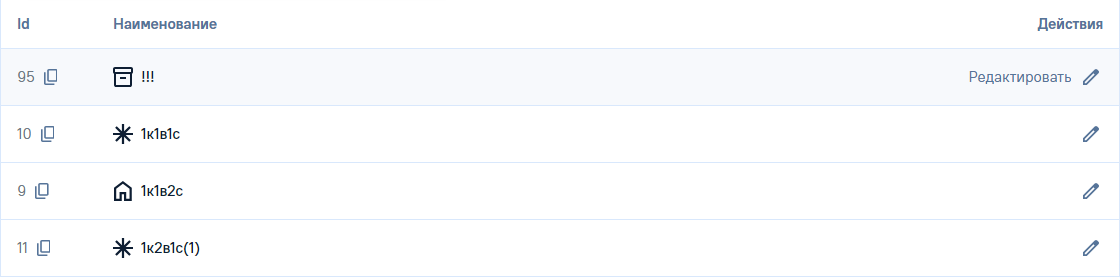
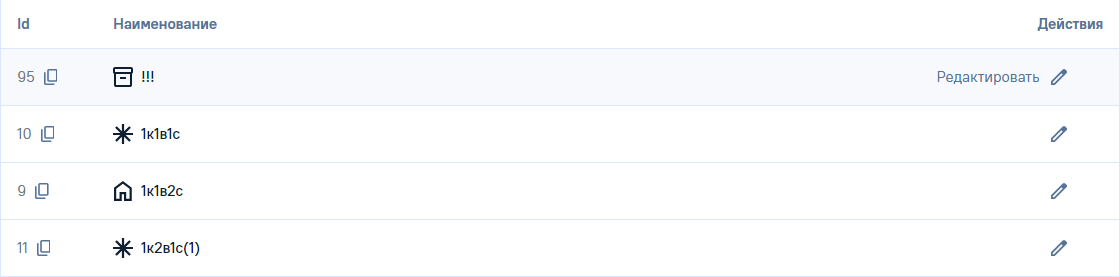
Такт 22: порядок слотов в колонке действий — вторичный правее карандаша
Дефект передачи решения в такте 21 (ошибка чата): слоты стояли
[вторичное] [карандаш], подпись появлялась только без вторичных.

По решению владельца слева направо: подпись «Редактировать» →
карандаш → вторичный слот. Подпись по наведению строки — всегда,
механика такта 20 без условий; тултип только у иконки вторичного
слота, у кебаба и карандаша тултипа нет. Вторичный слот 24×24 через 8
резервируется всегда, пустой без объекта (рекомендация чата, принято
владельцем). Ширина колонки — TABLE_ROW_ACTIONS_COLUMN = 200, одна
на всю админку. TableRowAction не менялся.

Документы: naming.md (действие строки, канон, что где живёт),
page-insure-types.md (такт 22, пометки у строк такта 21), handoff.md.
Скриншоты action-hover, actions-demo, kebab-open пересняты headless.

diff --git a/app/components/ui/table/TableRowActions.vue b/app/components/ui/table/TableRowActions.vue
@@ -9,27 +9,31 @@ import TableRowAction from './TableRowAction.vue'
 import { TABLE_ROW_ACTION_ORDER, type TableRowActionItem } from '.'
 
 /**
- * Колонка «Действия» строки — всегда не больше двух слотов. Решения владельца:
- * такт 20 (удаление не голой иконкой, порядок кебаба), такт 21 (модель двух слотов).
- * Мастера нет — композиция `TableRowAction`, `IconButton service`, `Tooltip` и
- * попапа «ещё» с «Моих осмотров» (`Popover` + `SelectItem`).
+ * Колонка «Действия» строки. Решения владельца: такт 20 (подпись по наведению,
+ * удаление не голой иконкой, порядок кебаба), такт 21 (вторичный слот), такт 22
+ * (порядок слотов и резерв).
  *
- * ## Модель двух слотов
+ * ## Порядок слева направо: подпись → карандаш → вторичный слот
  *
- * | Вторичных действий | Раскладка |
+ * Карандаш с подписью — `TableRowAction`, всегда и при любом числе действий: подпись
+ * «Редактировать» проявляется слева от карандаша по наведению на строку (`opacity`,
+ * место зарезервировано, 12 до глифа). У карандаша тултипа нет — у него подпись.
+ *
+ * Правее карандаша через 8 — **вторичный слот** 24×24:
+ *
+ * | Вторичных действий | Вторичный слот |
  * |---|---|
- * | нет | `TableRowAction`: карандаш и подпись «Редактировать» по наведению на строку |
- * | одно, не удаление | [иконка действия] [карандаш], у обеих тултип с названием |
- * | два и больше — или есть удаление | [кебаб] [карандаш], у карандаша тултип |
+ * | нет | пустой, без объекта — но место занято |
+ * | одно, не удаление | иконка действия (`IconButton service`, глиф 16), тултип с названием |
+ * | два и больше — или есть удаление | кебаб (глиф `pending`), тултипа нет; удаление — последней группой |
  *
- * Правый слот — карандаш, всегда. Слот 24×24 (хит-зона `IconButton size="sm"`),
- * зазор 8, всё прижато вправо — поэтому у карандаша одна координата X на всю колонку.
- * Удаление голой иконкой не встаёт никогда: оно уводит в кебаб все вторичные, даже
- * если оно единственное.
+ * **Вторичный слот резервируется всегда** — рекомендация чата, принято владельцем (такт
+ * 22): тогда карандаш стоит на одной координате X во всей админке, а не только внутри
+ * страницы. Ширина колонки поэтому одна на всю админку —
+ * `TABLE_ROW_ACTIONS_COLUMN` в `table/index.ts`, страница её не пересчитывает.
  *
- * Пороги «1–3 инлайном, 4+ кебаб», очередь инлайн-слотов и резерв под три иконки
- * такта 20 сняты. Ширину колонки резервирует страница: без вторичных — слот плюс
- * подпись, со вторичными — два слота.
+ * > Такт 22 исправил порядок: в такте 21 вторичный слот стоял левее карандаша — ошибка
+ * > передачи решения владельца.
  *
  * ## Клик по действию не уходит в строку
  *
@@ -39,7 +43,7 @@ import { TABLE_ROW_ACTION_ORDER, type TableRowActionItem } from '.'
 const props = withDefaults(defineProps<{
   /** Вторичные действия в любом порядке — порядок кебаба задаёт компонент. */
   actions?: TableRowActionItem[]
-  /** Подпись и имя карандаша. */
+  /** Подпись карандаша. */
   editLabel?: string
   /** Редактирование недоступно по правам. */
   editDisabled?: boolean
@@ -51,7 +55,7 @@ const props = withDefaults(defineProps<{
 
 const menuOpen = ref(false)
 
-/** Одно вторичное действие, и это не удаление, — встаёт иконкой в левый слот. */
+/** Одно вторичное действие, и это не удаление, — встаёт иконкой. */
 const single = computed(() => {
   const [first] = props.actions
   return props.actions.length === 1 && first && !first.destructive ? first : null
@@ -68,28 +72,25 @@ const menuDanger = computed(() => ordered.value.filter(a => a.destructive))
 
 <template>
   <div data-slot="table-row-actions" class="flex items-center justify-end gap-2" @click.stop>
-    <!-- Вторичных нет: один слот, подпись по наведению на строку. -->
-    <TableRowAction v-if="!props.actions.length" :disabled="props.editDisabled">
+    <!-- Подпись и карандаш: всегда, при любом числе действий. -->
+    <TableRowAction :disabled="props.editDisabled">
       {{ props.editLabel }}
     </TableRowAction>
 
-    <template v-else>
-      <!-- Левый слот — одно вторичное действие иконкой. -->
+    <!-- Вторичный слот: 24×24, занят всегда — пустой, иконка или кебаб. -->
+    <span data-slot="table-row-actions-secondary" class="relative flex size-6 shrink-0">
       <TooltipProvider v-if="single">
         <Tooltip>
           <TooltipTrigger as-child>
-            <span data-slot="table-row-actions-slot" class="flex">
-              <IconButton variant="service" size="sm" :label="single.label" :disabled="single.disabled">
-                <Icon :name="single.icon" :size="16" />
-              </IconButton>
-            </span>
+            <IconButton variant="service" size="sm" :label="single.label" :disabled="single.disabled">
+              <Icon :name="single.icon" :size="16" />
+            </IconButton>
           </TooltipTrigger>
           <TooltipContent>{{ single.label }}</TooltipContent>
         </Tooltip>
       </TooltipProvider>
 
-      <!-- Левый слот — кебаб: открывает попап «ещё», удаление последней группой. -->
-      <span v-else data-slot="table-row-actions-slot" class="relative flex">
+      <template v-else-if="props.actions.length">
         <IconButton
           variant="service"
           size="sm"
@@ -126,21 +127,7 @@ const menuDanger = computed(() => ordered.value.filter(a => a.destructive))
             </SelectItem>
           </SelectGroup>
         </Popover>
-      </span>
-
-      <!-- Правый слот — карандаш, всегда. -->
-      <TooltipProvider>
-        <Tooltip>
-          <TooltipTrigger as-child>
-            <span data-slot="table-row-actions-slot" class="flex">
-              <IconButton variant="service" size="sm" :label="props.editLabel" :disabled="props.editDisabled">
-                <Icon name="edit" :size="16" />
-              </IconButton>
-            </span>
-          </TooltipTrigger>
-          <TooltipContent>{{ props.editLabel }}</TooltipContent>
-        </Tooltip>
-      </TooltipProvider>
-    </template>
+      </template>
+    </span>
   </div>
 </template>

diff --git a/app/pages/insure-types.vue b/app/pages/insure-types.vue
@@ -1,6 +1,6 @@
 <script setup lang="ts">
 import { computed, ref } from 'vue'
-import type { TableRowActionItem } from '@/components/ui/table'
+import { TABLE_ROW_ACTIONS_COLUMN, type TableRowActionItem } from '@/components/ui/table'
 
 /**
  * Вторая тестовая страница — «Типы схем осмотров» (`insure-types`) текущей
@@ -110,14 +110,14 @@ const TYPES = [
 /**
  * Колонки. Макета нет: ширины — решение сборки, содержательная колонка резиновая.
  * Колонки «Иконка» нет с такта 20: эмблема живёт в «Наименовании» блоком
- * идентичности. Ширину «Действий» резервирует страница (такт 21): без вторичных
- * действий — слот плюс подпись (w-44), со вторичными у всех строк — два слота. Демо
- * смешивает оба вида, поэтому держит w-44. Ширина одна на все строки.
+ * идентичности. Ширина «Действий» одна на всю админку — `TABLE_ROW_ACTIONS_COLUMN`
+ * (такт 22): подпись, карандаш и всегда зарезервированный вторичный слот. Страница её
+ * не пересчитывает.
  */
 const columns = [
   { key: 'id', title: 'Id', width: 'w-24' },
   { key: 'name', title: 'Наименование', width: 'flex-1' },
-  { key: 'actions', title: 'Действия', width: 'w-44' },
+  { key: 'actions', title: 'Действия', width: TABLE_ROW_ACTIONS_COLUMN },
 ] as const
 
 /**
@@ -160,8 +160,8 @@ if (route.query.q) search.value = String(route.query.q)
  *
  * Канон — одно действие у всех строк: карандаш с подписью по наведению. Набор
  * действий у всех строк страницы один (D6 такта 20), поэтому смешанные строки бывают
- * только здесь. Такт 21: колонка из двух слотов — строка 1 только карандаш, строка 2
- * одно вторичное действие иконкой, строка 3 кебаб.
+ * только здесь. Такт 22: строка 1 — только карандаш, строка 2 — карандаш и копировать,
+ * строка 3 — карандаш и кебаб. Подпись по наведению — у всех трёх.
  */
 const demoActions = route.query.actions === 'demo'
 
@@ -269,7 +269,7 @@ function actionsFor(index: number): TableRowActionItem[] {
         </TableCell>
 
         <!-- Колонка действий — компонент кита (такт 20, D): раскладку страница не повторяет. -->
-        <TableCell variant="slot" :size="56" class="w-44 justify-end px-4">
+        <TableCell variant="slot" :size="56" class="justify-end px-4" :class="TABLE_ROW_ACTIONS_COLUMN">
           <TableRowActions :actions="actionsFor(index)" />
         </TableCell>
       </TableRow>

diff --git a/app/components/ui/table/index.ts b/app/components/ui/table/index.ts
@@ -179,6 +179,18 @@ export interface TableRowActionItem {
  */
 export const TABLE_ROW_ACTION_ORDER = ['copy', 'archive', 'export', 'delete'] as const
 
+/**
+ * Ширина колонки «Действия» — одна на всю админку. Решение владельца, такт 22:
+ * вторичный слот резервируется всегда, поэтому карандаш стоит на одной координате X
+ * на любой странице, а не только внутри одной.
+ *
+ * Расчёт: подпись «Редактировать» 15/20 — 102.6, до слота карандаша 8 (12 до глифа),
+ * слот карандаша 24, зазор 8, вторичный слот 24, паддинги ячейки 16 + 16 — итого
+ * 198.6, до кратного 4 — **200**. Класс статичный: собранную строку Tailwind не увидит.
+ * Страница ширину не пересчитывает.
+ */
+export const TABLE_ROW_ACTIONS_COLUMN = 'w-50'
+
 export type TableRowVariants = VariantProps<typeof tableRowVariants>
 export type TableCellVariants = VariantProps<typeof tableCellVariants>
 export type TableHeadVariants = VariantProps<typeof tableHeadVariants>

diff --git a/docs/naming.md b/docs/naming.md
@@ -620,23 +620,27 @@ rososmotr своей поверхности под окно нет, и роль 
 
 ### Действие строки — `TableRowAction` и `TableRowActions`
 
-Такт 10 заложил раскрытие подписи по строке, такт 20 закрепил колонку, такт 21 свёл её к двум
-слотам. Мастера нет: композиция принятых идентичностей — покой `IconButton variant="service"`,
-попап «ещё» с «Моих осмотров» (`Popover` + `SelectItem`), тултип механики `TableCellText`.
+Такт 10 заложил раскрытие подписи по строке, такт 20 закрепил колонку, такт 21 ввёл вторичный
+слот, такт 22 исправил порядок. Мастера нет: композиция принятых идентичностей — покой
+`IconButton variant="service"`, попап «ещё» с «Моих осмотров» (`Popover` + `SelectItem`), тултип
+механики `TableCellText`.
 
-> **Пороги такта 20 сняты.** «1–3 действия инлайном, 4+ — кебаб», глобальная очередь инлайн-слотов
-> и резерв колонки под три иконки больше не действуют. Владелец, такт 21.
+> **Такт 22: порядок слотов исправлен, ошибка передачи решения в такте 21.** В такте 21 вторичный
+> слот стоял левее карандаша, а подпись появлялась только без вторичных действий. Решение владельца
+> было обратным — вторичный слот правее карандаша, подпись всегда. Пороги такта 20 («1–3 инлайном,
+> 4+ — кебаб», очередь инлайн-слотов) сняты тактом 21 и не возвращаются.
 
 | Правило | Почему |
 |---|---|
 | **`TableRow` несёт `group/table-row` всегда, а не по запросу страницы** | маркер без потребителя ничего не стоит, а его отсутствие там, где он понадобится, — молчаливый дефект сборки |
-| **Колонка — не больше двух слотов 24×24 через 8, `justify-end`** | правый слот — карандаш, всегда. Левый — одно вторичное действие иконкой (`IconButton service`, глиф 16), а если вторичных два и больше — кебаб (глиф `pending`, как у «ещё»). Владелец, такт 21 |
-| **Удаление в левый слот голой иконкой не встаёт** | удаление уводит в кебаб все вторичные, даже если оно единственное. Владелец, такт 20 (D5), уточнено тактом 21 |
-| **Порядок в кебабе фиксирован** | копировать, архивировать, экспортировать; удалить — последней группой (`TABLE_ROW_ACTION_ORDER`). Владелец, такт 20 |
-| **Один слот — `TableRowAction`: подпись «Редактировать» по наведению на строку, слева от карандаша** | только у страницы без вторичных действий; место подписи зарезервировано, у неё меняется только `opacity`. Владелец, такт 20 (D4), подтверждено тактом 21 |
+| **Порядок слева направо: подпись «Редактировать» → карандаш → вторичный слот** | карандаш стоит на своём месте всегда. Владелец, такт 21, уточнено 2026-09-15 (такт 22) |
+| **Подпись по наведению на строку — при любом числе действий** | механика такта 20 без условий: слева от карандаша, `opacity` 0→1, место зарезервировано. У карандаша тултипа нет — у него подпись. Владелец, такт 22 |
 | **Зазор подпись↔карандаш — 12 до глифа** | глиф 16 стоит в слоте 24, поэтому в разметке `gap-2`: 8 до слота плюс 4 поля слота. Владелец, такт 20 (D4); перевод в разметку — решение агента |
-| **Два слота — у обеих иконок тултип с названием действия, подписи нет** | подпись у двух иконок развела бы их по разным координатам. Владелец, такт 21 |
-| **Ширину колонки резервирует страница** | без вторичных действий — слот плюс место под подпись; со вторичными — два слота. Ширина одна на все строки, карандаш у всех на одной X. Владелец, такт 21 |
+| **Вторичный слот 24×24 через 8 правее карандаша** | одно вторичное действие — его иконка (`IconButton service`, глиф 16) с тултипом; два и больше или есть удаление — кебаб (глиф `pending`) без тултипа. Владелец, такт 21, место — такт 22 |
+| **Вторичный слот резервируется всегда** | и на страницах без вторичных действий — пустой, без объекта. Карандаш тогда на одной X во всей админке, а не только внутри страницы. Рекомендация чата, принято владельцем, такт 22 |
+| **Ширина колонки одна на всю админку — `TABLE_ROW_ACTIONS_COLUMN`** | подпись 102.6 + 8 + 24 + 8 + 24 + паддинги 32 = 198.6 → **200**. Константа в `table/index.ts`, страница не пересчитывает. Владелец, такт 22 |
+| **Удаление голой иконкой не встаёт** | уводит в кебаб все вторичные, даже если оно единственное. Владелец, такт 20 (D5), уточнено тактом 21 |
+| **Порядок в кебабе фиксирован** | копировать, архивировать, экспортировать; удалить — последней группой (`TABLE_ROW_ACTION_ORDER`). Владелец, такт 20 |
 | **Недоступное по правам действие стоит в слоте выключенным** | `opacity-disabled`, слот не схлопывается. Владелец, такт 20 (D3) |
 | **Подпись видна, но неактивна (`opacity-0`), а не убрана из DOM** | остаётся в дереве доступности: имя кнопки для читалки не зависит от наведения |
 | **Тач — подпись видна по `(hover: none)`** | вторая метрика `(pointer: coarse)` врёт на стилус-экранах. Такт 10, сохранено |
@@ -741,8 +745,10 @@ rososmotr своей поверхности под окно нет, и роль 
 | **Редактирование открывает страницу, а не дровер** | владелец, такт 20: форма справочника длинная — факт прода, страница статусов |
 
 **D. Колонка «Действия»** — правила в разделе «Действие строки — `TableRowAction` и
-`TableRowActions`» выше. С такта 21 — модель двух слотов: пороги «1–3 инлайном, 4+ кебаб»
-и очередь инлайн-слотов сняты (владелец, такт 21).
+`TableRowActions`» выше. С такта 21 пороги «1–3 инлайном, 4+ кебаб» и очередь
+инлайн-слотов сняты; такт 22 исправил порядок: подпись → карандаш → вторичный слот, слот
+резервируется всегда, ширина колонки одна на всю админку (владелец; ошибка передачи решения в
+такте 21).
 
 **Карандаш по наведению с подписью — сознательное отклонение от референса.** Референс Mobbin:
 клик в строку → панель 5/15, кебаб 3/15, постоянная кнопка Edit 1/15, карандаш по ховеру с
@@ -827,7 +833,7 @@ rososmotr своей поверхности под окно нет, и роль 
 | **Выпадающая плашка светлая даже когда она — настоящий портал из тёмного меню** | правило порталов. Сверено с мастером: заливка `MenuPopOver` белая, тень та же, что у выпадашки списка. Уточнение такта 9 — правило про порталы, не про «всё, что всплывает»: см. раздел выше |
 | **Цвет по роли, а не по виду** | `success` — потому что операция завершилась, а не потому что нужен зелёный. Разбор — раздел «Роль против палитры» выше |
 | **Расширенная палитра — только по явному указанию** | «похоже по цвету» не основание: зелёная `palette-01` стоит рядом с `success`, и перепутать легко |
-| **Колонка действий строки — `TableRowActions` в `table/`** | контейнер колонки из двух слотов: левый — одно вторичное действие иконкой или кебаб, правый — карандаш; порядок кебаба — `TABLE_ROW_ACTION_ORDER` в `table/index.ts`. Без вторичных отдаёт `TableRowAction`. Такт 20, упрощён тактом 21 |
+| **Колонка действий строки — `TableRowActions` в `table/`** | слева направо: `TableRowAction` (подпись и карандаш, всегда) → вторичный слот 24×24 через 8, зарезервированный всегда — пустой, иконка действия или кебаб. Порядок кебаба — `TABLE_ROW_ACTION_ORDER`, ширина колонки — `TABLE_ROW_ACTIONS_COLUMN`, обе константы в `table/index.ts`. Такт 20, упрощён тактом 21, порядок исправлен тактом 22 |
 | **`Popover` закрывается кликом снаружи и по Esc** | управление `v-model:open`: плашка просит закрыться событием, видимость держит потребитель. Клик по триггеру в якоре плашки снаружи не считается. Без `open` плашка статична. Владелец, такт 21; до него закрытия не было ни у одного потребителя — дефект компонента, не ловушка Reka |
 | **Группы в плашке разделяет волосяная линия; опасное действие — последней группой** | линия 1px `--border-neutral`, отступы 4 сверху и снизу вместо зазора 8 мастера `ListGroup` `542:4969`: при пункте около 40 промежуток внутри группы около 20, между группами около 28 — шаг ×1.4, а группировка читается от ×1.5–2. Линию несёт `SelectGroup`, идущая следом за другой; `SelectContent` гасит свой зазор, когда в нём группы. Владелец, такт 21 — отклонение от мастера, `figma-fixes.md` |
 | **Блок идентичности строки — `TableCellIdentity` в `table/`** | иконка 20 + зазор 8 + имя medium одной ячейкой. Живёт в таблице, а не в меню: геометрия общая с пунктом меню кита 1, назначение — ячейка. Такт 20 |

diff --git a/docs/page-insure-types.md b/docs/page-insure-types.md
@@ -642,10 +642,10 @@ Protocol (`Input.dispatchMouseEvent`).
 
 | Что | Было (такт 20) | Стало | Провенанс |
 |---|---|---|---|
-| **колонка действий** | пороги «1–3 инлайном, 4+ кебаб», очередь инлайн-слотов, резерв до трёх иконок (`slots`) | не больше двух слотов 24×24 через 8: левый — одно вторичное иконкой или кебаб, правый — карандаш всегда. Проп `slots` и очередь убраны | решение владельца (A) |
+| **колонка действий** | пороги «1–3 инлайном, 4+ кебаб», очередь инлайн-слотов, резерв до трёх иконок (`slots`) | не больше двух слотов 24×24 через 8: левый — одно вторичное иконкой или кебаб, правый — карандаш всегда. Проп `slots` и очередь убраны. **Порядок неверен — исправлен тактом 22:** вторичный слот правее карандаша | решение владельца (A); порядок передан неверно — ошибка передачи решения |
 | **удаление** | уходило в кебаб при любом числе действий | то же: уводит в кебаб все вторичные, даже если единственное | решение владельца (такт 20, D5; такт 21, A) |
-| **подпись и тултипы** | подпись у одного действия, тултипы у 2–3 иконок | подпись — только при одном слоте; при двух слотах тултип у обеих иконок | решение владельца (A) |
-| **ширина колонки** | резерв компонентом под максимум слотов | резервирует страница: без вторичных — слот и подпись, со вторичными — два слота; демо смешивает виды и держит `w-44` | решение владельца (A) |
+| **подпись и тултипы** | подпись у одного действия, тултипы у 2–3 иконок | подпись — только при одном слоте; при двух слотах тултип у обеих иконок. **Исправлено тактом 22:** подпись всегда, тултип только у иконки вторичного слота | решение владельца (A); передано неверно |
+| **ширина колонки** | резерв компонентом под максимум слотов | резервирует страница: без вторичных — слот и подпись, со вторичными — два слота; демо смешивает виды и держит `w-44`. **Заменено тактом 22:** одна константа на всю админку, 200 | решение владельца (A); заменено тактом 22 |
 | **закрытие плашек** | ни одна плашка на `Popover` не закрывалась кликом мимо и по Esc | `Popover` закрывается кликом снаружи и по Esc, управление `v-model:open`; клик по триггеру снаружи не считается. Потребители переведены: кебаб, «ещё» и режимы выбора, размер страницы в подвале, значения фильтр-чипа | решение владельца (B); дефект компонента, не ловушка Reka |
 | **группы в плашке** | зазор 8 по мастеру `ListGroup` | линия 1px `--border-neutral` с отступами 4/4; линию несёт `SelectGroup`, идущая следом за другой; `SelectContent` гасит зазор при группах | решение владельца (C), отклонение от мастера |
 | **демо** | строки: 2, 3 и 4+ действий | строка 1 — только карандаш; строка 2 — копировать и карандаш; строка 3 — кебаб и карандаш | решение владельца (D) |
@@ -668,3 +668,44 @@ Protocol (`Input.dispatchMouseEvent`).
 | `/compare` | 114 иконок, 361 текстовый узел, провалов нет |
 | консоль | ошибок нет: `insure-types`, демо, «Мои осмотры», витрина |
 | витрина | не менялась: статичный `Popover` без `open` рендерится как раньше, линия между группами пришла из компонента |
+
+## Такт 22: порядок слотов в колонке действий
+
+**Дефект передачи решения, не агента и не компонента.** В такте 21 слоты были собраны как
+[вторичное или кебаб] [карандаш], а подпись «Редактировать» появлялась только без вторичных действий.
+Решение владельца было обратным; промпт такта 21 передал его неверно — ошибка чата. Правила —
+`docs/naming.md`, раздел «Действие строки — `TableRowAction` и `TableRowActions`».
+
+| Демо `?actions=demo` | Кебаб открыт |
+|---|---|
+| ![Демо действий строки](page-insure-types-actions-demo.png) | ![Кебаб правее карандаша](page-insure-types-kebab-open.png) |
+
+![Наведение на строку](page-insure-types-action-hover.png)
+
+### Что изменилось
+
+| Что | Было (такт 21) | Стало | Провенанс |
+|---|---|---|---|
+| **порядок** | [вторичное / кебаб] [карандаш] | подпись → карандаш → вторичный слот | решение владельца (A), уточнено 2026-09-15 |
+| **подпись «Редактировать»** | только когда вторичных нет | всегда, при любом числе действий; механика такта 20 без условий | решение владельца (A) |
+| **тултипы** | у обеих иконок при двух слотах | только у иконки вторичного слота; у карандаша — подпись, у кебаба тултипа нет | решение владельца (B) |
+| **вторичный слот** | появлялся только при вторичных действиях | резервируется всегда, пустой — без объекта | рекомендация чата, принято владельцем (C) |
+| **ширина колонки** | резервировала страница (`w-44` на демо) | `TABLE_ROW_ACTIONS_COLUMN` = 200, одна на всю админку: подпись 102.6 + 8 + 24 + 8 + 24 + паддинги 32 = 198.6, до кратного 4 | решение владельца (C); расчёт — замер агента |
+| **`TableRowAction`** | — | не менялся: подпись и так стоит слева от карандаша независимо от того, что правее | факт кода |
+
+### Проверено после правок
+
+Курсор и снимки — headless Chrome через DevTools Protocol, как в тактах 20–21.
+
+| Проверка | Результат |
+|---|---|
+| дефолт: X глифа карандаша | **1339** у всех строк |
+| дефолт: правее карандаша | от слота карандаша до края содержимого ячейки 32 (8 + 24); вторичный слот 24×24 пустой, без объекта |
+| дефолт: наведение на строку | подпись слева от карандаша, `opacity` 0 → 1, до глифа 12; колонка 200 в покое и при наведении; у карандаша тултипа нет |
+| демо: X карандаша | **1339** у строк 1–4 — та же, что в дефолте |
+| демо, строка 1 | вторичный слот пустой; подпись по наведению появляется |
+| демо, строка 2 | правее карандаша через 8 — «Копировать» 24×24, тултип открывается; у карандаша тултипа нет; подпись по наведению появляется |
+| демо, строка 3 | правее карандаша через 8 — кебаб, тултипа нет; открывается: «Копировать, Архивировать, Экспортировать», за линией 1px `#d0d4d8` (4/4) — «Удалить»; плашка не выходит за таблицу; закрывается кликом мимо и по Esc; подпись по наведению появляется |
+| `/compare` | 114 иконок, 361 текстовый узел, провалов нет |
+| консоль | ошибок нет: дефолт и демо |
+| витрина и тема | не менялись |

diff --git a/docs/handoff.md b/docs/handoff.md
@@ -16,7 +16,7 @@
 **Перенос Атома закончен, все девять волн приняты. Этап 2 — обогащение — закрыт целиком.**
 Идёт **тест кита на живой странице**: разбор ниже, история этапов — дальше по документу.
 
-## Где мы сейчас: тест кита на живых страницах завершён, такты 1–21 закрыты
+## Где мы сейчас: тест кита на живых страницах завершён, такты 1–22 закрыты
 
 Перенос и обогащение позади. **Тест кита на живых страницах закрыт.** Две страницы:
 
@@ -60,6 +60,7 @@
 | **19, часть 2** — палитра: единица — строка | витрина `/` | решение владельца 2026-09-15: карточки сняты, каждая группа — таблица из компонентов кита (без скругления и рамки контейнера, разделитель `--border-neutral`). Две формы одной строки: таблица ролей (Роль · Свотч · Токен · Hex · Где применяется) и матрица состояний (оси — только существующие в группе). Рампа — сплошная полоса клеток 64×40, пустое состояние — пустая клетка. Под клеткой — хвост токена и hex, база — в колонке «Роль»: полный токен до 222px моно 13 в клетку 64 не помещается (замер). Свотч 64×40 r8, обводка 1px внутрь нейтральной на 50%. Тени — все семь девятой группой «Тени» по разделу 4 `naming.md`, на подложке `--muted` (единственная группа с подложкой). Сайдбар — таблица ролей. Правки темы по пунктам 3 и 6 расхождений: комментарии рамп по факту и утилиты `bg-palette-02…05-hover`/`-pressed`; утилиты `shadow-elevated*` в `@theme inline` ссылаются на `var(--shadow-elevated*)`, значения — в блоке темы; переопределение в `atom` действует (проверено подстановкой значения в узел темы). Первый заход — перенос в `@theme` без `inline` — не сработал: утилита тени вшивает значение, чтобы подменять цвет. `TableRow` получил слияние `class` через `cn`, как соседи. Замеры: ячейка 56 (строка 57 с разделителем, как в таблице кита), паддинг 16, между группами 48, заголовок→таблица 16; atom — 73 помечены «из rososmotr». Правило — `naming.md`, раздел 6 |
 | **20** — паттерн типовой страницы-таблицы закреплён | Типы схем осмотров | превью тактов 13–18 принято и стало каноном в `naming.md` (вариант такта 10 снят). Шапка: поиск 440 слева, «Добавить» справа, одна ось, счётчика нет — число в подвале. Колонка «Иконка» снята: `TableCellIdentity` (иконка 20 + 8 + имя medium, геометрия пункта меню кита 1). Строка — цель клика (`interactive`, обработчика нет намеренно). Колонка действий — `TableRowActions`: 1 действие — `TableRowAction` с подписью слева и карандашом в слоте 24 у края (до глифа 12); 2–3 — тихие иконки с тултипами; 4+ или удаление — кебаб `pending` с попапом «ещё», «Удалить» отдельной группой. Глобальный порядок справа налево: карандаш, копировать, архивировать, кебаб; слоты 24 через 8, выключенное не схлопывается — у `IconButton service` заведён выключенный вид. Глиф `delete` из официальной выгрузки. Оснастка `?actions=demo`. Правила Mobbin — в `CLAUDE.md`; вопрос 34 (многозначная ячейка) — в `open-questions.md`. Наведение и тултипы проверены headless Chrome через DevTools Protocol: X карандаша 1226 у всех строк, колонка 176 при наведении |
 | **21** — компонентные правки после приёмки такта 20 | Типы схем осмотров · обе | колонка действий — не больше двух слотов: левый — одно вторичное иконкой или кебаб (удаление всегда уводит в кебаб), правый — карандаш; подпись только при одном слоте, при двух — тултипы; пороги «1–3 / 4+», очередь и проп `slots` сняты, ширину резервирует страница. `Popover` закрывается кликом снаружи и по Esc (`v-model:open`) — дефект компонента, не ловушка Reka; потребители переведены. Группы в плашке разделяет линия 1px `--border-neutral` с отступами 4/4 вместо зазора 8 мастера `ListGroup` — решение владельца, `figma-fixes.md` «ждёт синка мастера». Демо: строки 1–3 — один слот, иконка, кебаб. Проверено headless: X карандаша 1371 у строк 1–6, закрытие кебаба и «ещё» кликом мимо и Esc, `Select` как раньше |
+| **22** — порядок слотов в колонке действий | Типы схем осмотров | дефект передачи решения в такте 21 (ошибка чата): слоты стояли [вторичное] [карандаш], подпись только без вторичных. Исправлено по решению владельца: слева направо подпись «Редактировать» → карандаш → вторичный слот; подпись по наведению всегда; тултип только у иконки вторичного слота. Вторичный слот резервируется всегда, пустой без объекта (рекомендация чата, принято владельцем); ширина колонки — `TABLE_ROW_ACTIONS_COLUMN` = 200, одна на всю админку. `TableRowAction` не менялся. Проверено headless: X карандаша 1339 в дефолте и демо, правее карандаша 32, подпись в трёх демо-строках, кебаб за линией |
 
 ### Такт 20 закрыт: паттерн закреплён
 
@@ -69,9 +70,10 @@
 `TableRowActions`». Разбор по числам, провенанс и референсы Mobbin — `page-insure-types.md`,
 раздел «Такт 20».
 
-**Такт 21** довёл колонку действий до двух слотов (левый — одно вторичное или кебаб, правый —
-карандаш), научил `Popover` закрываться кликом снаружи и по Esc и развёл группы в плашке
-волосяной линией. Разбор — `page-insure-types.md`, раздел «Такт 21».
+**Такт 21** ввёл вторичный слот, научил `Popover` закрываться кликом снаружи и по Esc и развёл
+группы в плашке волосяной линией. **Такт 22** исправил порядок, переданный в такте 21 неверно:
+подпись → карандаш → вторичный слот, слот резервируется всегда, ширина колонки одна на всю
+админку. Разбор — `page-insure-types.md`, разделы «Такт 21» и «Такт 22».
 
 Любая следующая таблица-справочник админки собирается по этому канону: шапка без счётчика,
 блок идентичности в «Наименовании», строка — цель клика, колонка действий через
